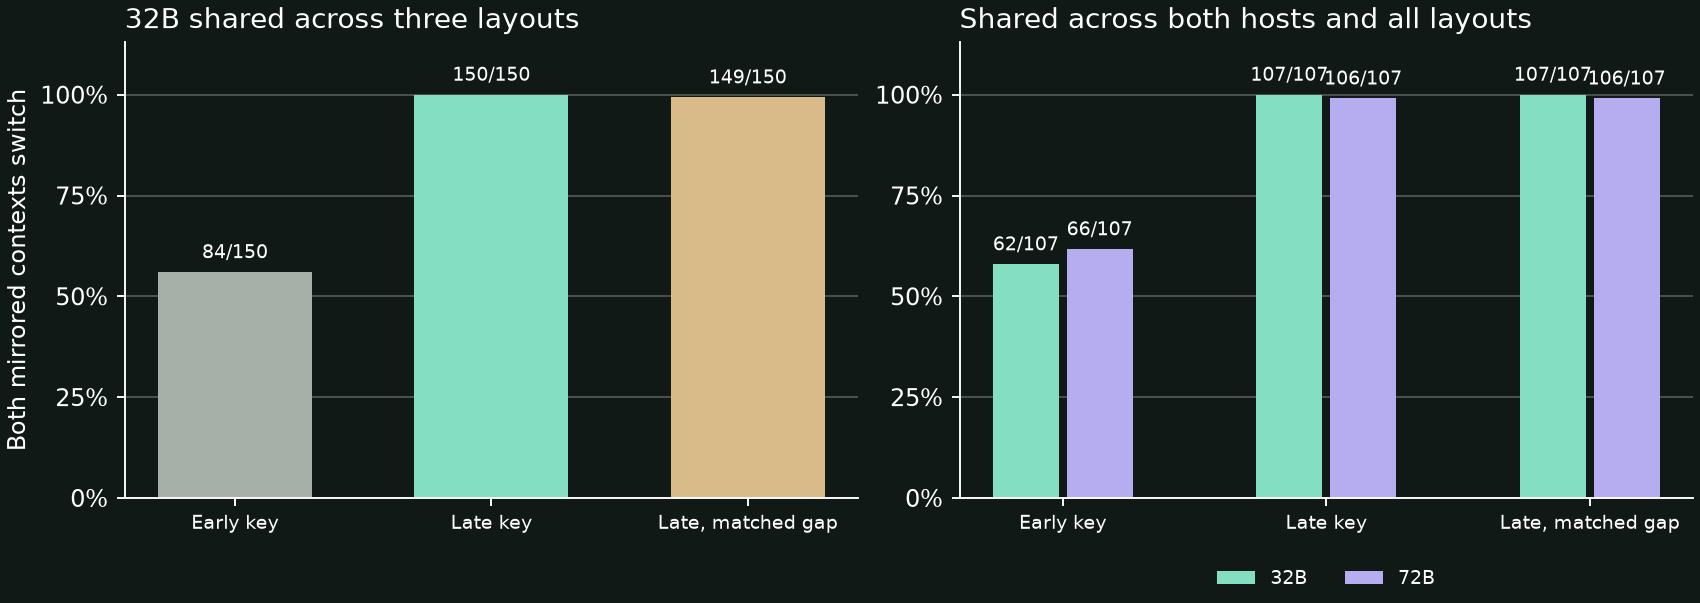
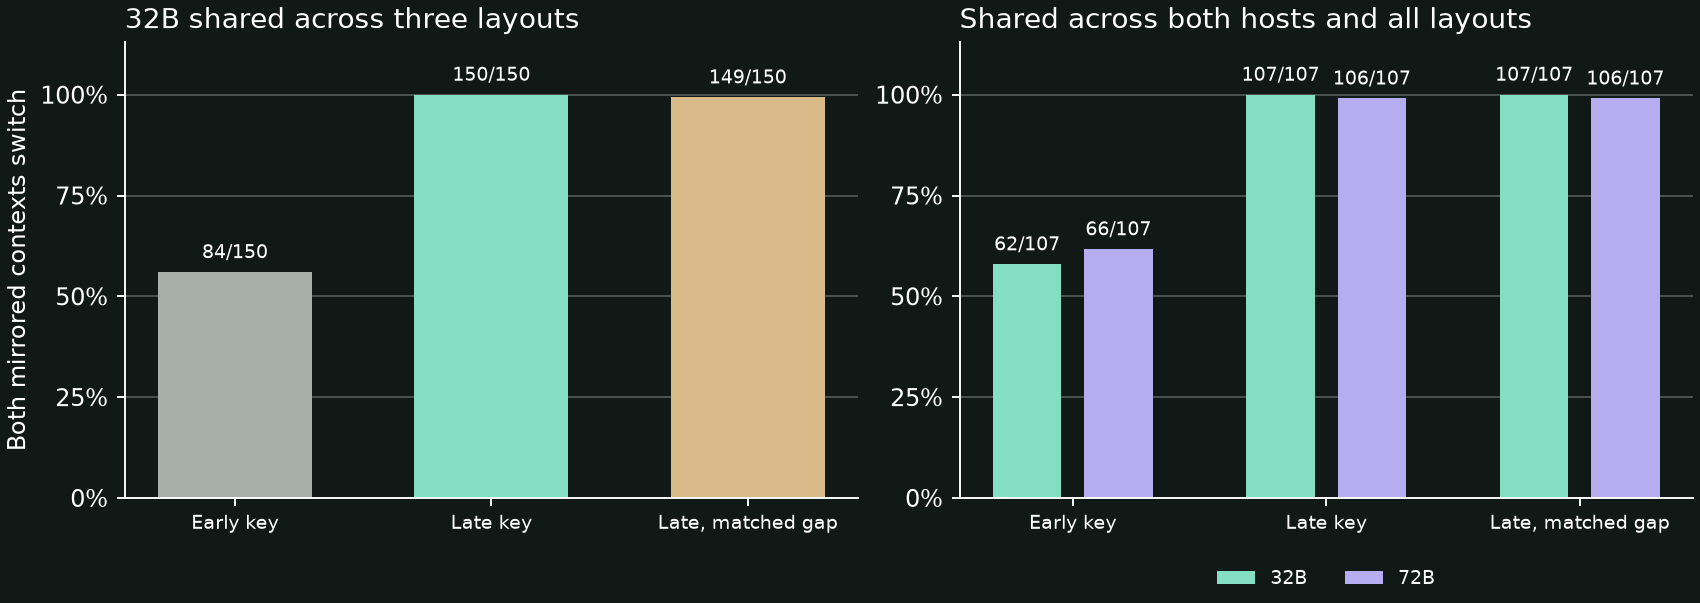
Link the 32B review and live matched-gap paper

Changed region(s): [[0.7171, 0.0896, 0.8418, 0.8358], [0.8729, 0.0896, 0.9976, 0.8955], [0.5612, 0.3582, 0.6859, 0.8955]]

diff --git a/nested_surgery/numeric_lookup_order_32b_study/figure.py b/nested_surgery/numeric_lookup_order_32b_study/figure.py
@@ -29,7 +29,7 @@ a.set_ylabel("Both mirrored contexts switch")
 n=r["posthoc_all_six_native_groups"]
 for j,(model,color) in enumerate((("32b","#84dfc2"),("72b","#b6acf0"))):
     v=[r["posthoc_shared_switches"][model][k] for k in keys]
-    bars=b.bar(np.arange(3)+(j-.5)*.28,100*np.array(v)/n,color=color,width=.25,label=model.upper())
+    bars=b.bar(np.arange(3)+(j-.5)*.36,100*np.array(v)/n,color=color,width=.27,label=model.upper())
     b.bar_label(bars,labels=[f"{x}/{n}" for x in v],padding=4,fontsize=8)
 b.set_title("Shared across both hosts and all layouts",loc="left")
 b.legend(loc="upper center",bbox_to_anchor=(.5,-.12),ncol=2,frameon=False,fontsize=8)

diff --git a/nested_surgery/numeric_lookup_order_32b_study/README.md b/nested_surgery/numeric_lookup_order_32b_study/README.md
@@ -21,3 +21,5 @@ The primary two-order cohort included 151 groups. Late constant-table preservati
 A post hoc audit of the 107 groups solved natively in all six model-and-order combinations found 32B whole-state switching of 62 early, 107 late and 107 padded. The comparable 72B counts were 66, 106 and 106. This descriptive overlap shows the pattern in the same examples in both pretrained hosts. The model widths and intervention boundaries differ, and both checkpoints come from the same Qwen family. [Early ranks](results/early.npz) · [Late ranks](results/late.npz) · [Matched-gap ranks](results/gap.npz) · [Independent audit](audit.json)
 
 Run `uv run --with numpy python nested_surgery/numeric_lookup_order_32b_study/verify.py` to check the exact program pairs, execute assertions, and reproduce cohort sizes, scores and paired intervals. The Studio run took 317 seconds and reached 66.40 GB peak MLX allocation. It used Apple M5 Ultra with 80 GPU cores and 256 GiB unified memory, macOS build 26B118, Python 3.12.16, MLX 0.32.4, MLX-LM 0.32.2, NumPy 2.5.5 and tokenizers 0.23.3. The owner proposed researching conditional routing and fixed references. OpenAI Codex implemented, ran, audited and documented the study. [Execution receipt](results/receipt.json) · [Verifier](verify.py)
+
+[Pubroot submission and review](https://github.com/buildngrowsv/pubroot-website/issues/531) · [Attention intervention protocol](../NUMERIC_LOOKUP_PREEDIT_ATTENTION_72B.md)

diff --git a/nested_surgery/numeric_lookup_gap_72b_study/README.md b/nested_surgery/numeric_lookup_gap_72b_study/README.md
@@ -22,4 +22,4 @@ The intervention rows condition on the 129 groups that the unchanged model solve
 
 Run `uv run --with numpy python nested_surgery/numeric_lookup_gap_72b_study/verify.py` to execute the Python assertions, verify unchanged prefixes, exact matched token gaps and archived hashes, and recompute all rank outcomes and intervals. The Studio took 585 seconds and reached 146.75 GB peak MLX allocation. It used an Apple M5 Ultra with 80 GPU cores and 256 GiB unified memory, macOS build 26B118, Python 3.12.16, MLX 0.32.4, MLX-LM 0.32.2, NumPy 2.5.5 and tokenizers 0.23.3. The owner proposed the expert transplantation and routing investigations. OpenAI Codex implemented, ran, audited and documented this comparison. [Execution receipt](results/receipt.json) · [Independent audit code](verify.py)
 
-[Pubroot submission and review](https://github.com/buildngrowsv/pubroot-website/issues/528) · [32B protocol](../NUMERIC_LOOKUP_ORDER_32B.md)
+[Published Pubroot article](https://pubroot.com/ai/nlp/late-key-donor-steering-survived-an-exactly-matched-token-gap-at-72b/) · [Review](https://github.com/buildngrowsv/pubroot-website/issues/528) · [32B result](../numeric_lookup_order_32b_study/README.md)
